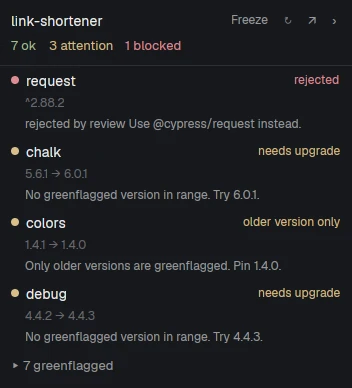
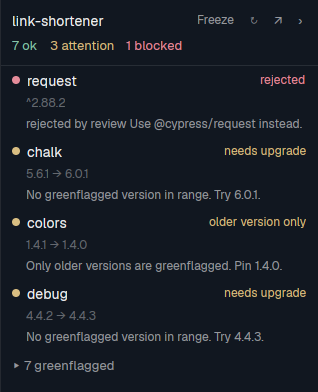
Capture the preview from the window and describe it in the alt text
Taken with herdr-app shot from the project's first commit, so the panel
shows blocked, attention and ok rows at full sharpness.

Claude-Session: https://claude.ai/code/session_01Crr9nptgFQpnc6NxxtXR1W

diff --git a/RECIPE.md b/RECIPE.md
@@ -2,7 +2,7 @@
 
 Spot rejected and unreviewed npm dependencies as your agent works, and see what to use instead. [Greenflagged](https://greenflagged.dev) is a private npm registry that scans and reviews every package it serves. It is free for personal use.
 
-![Greenflagged](preview.png)
+![Greenflagged panel for link-shortener: 7 ok, 3 attention and 1 blocked; request is rejected, with @cypress/request suggested instead](preview.png)
 
 ## What you see
 
